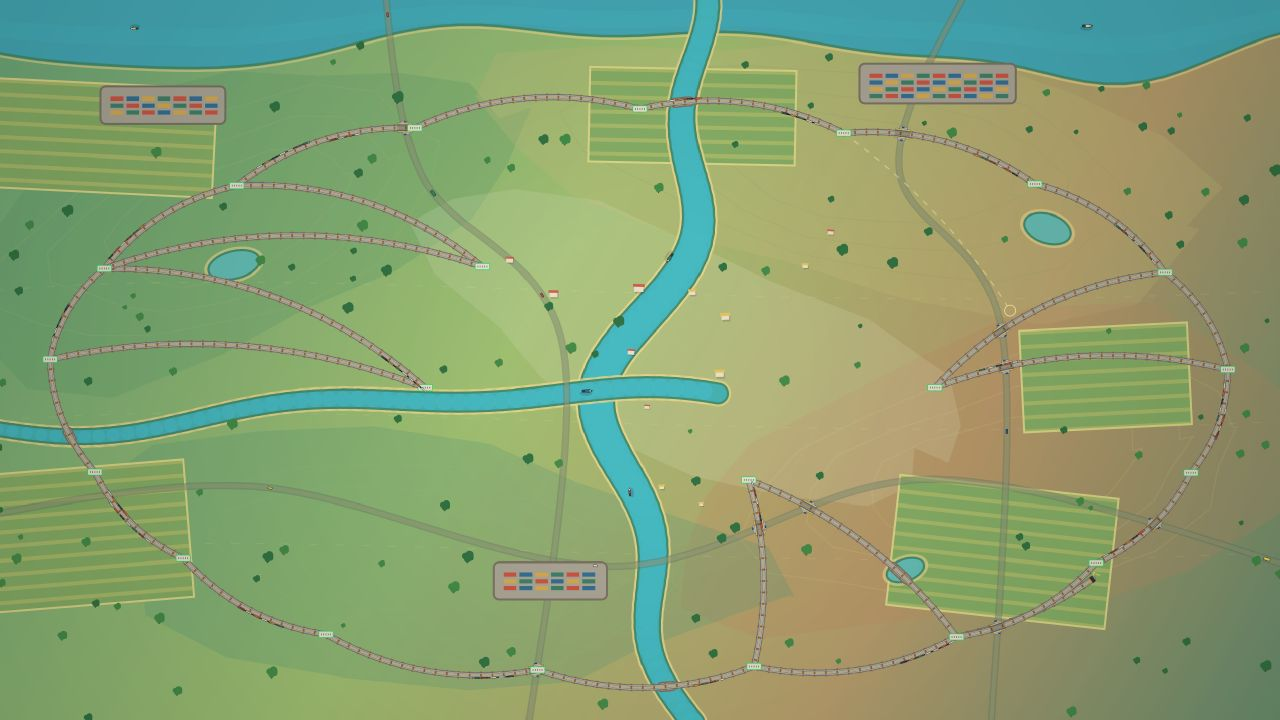
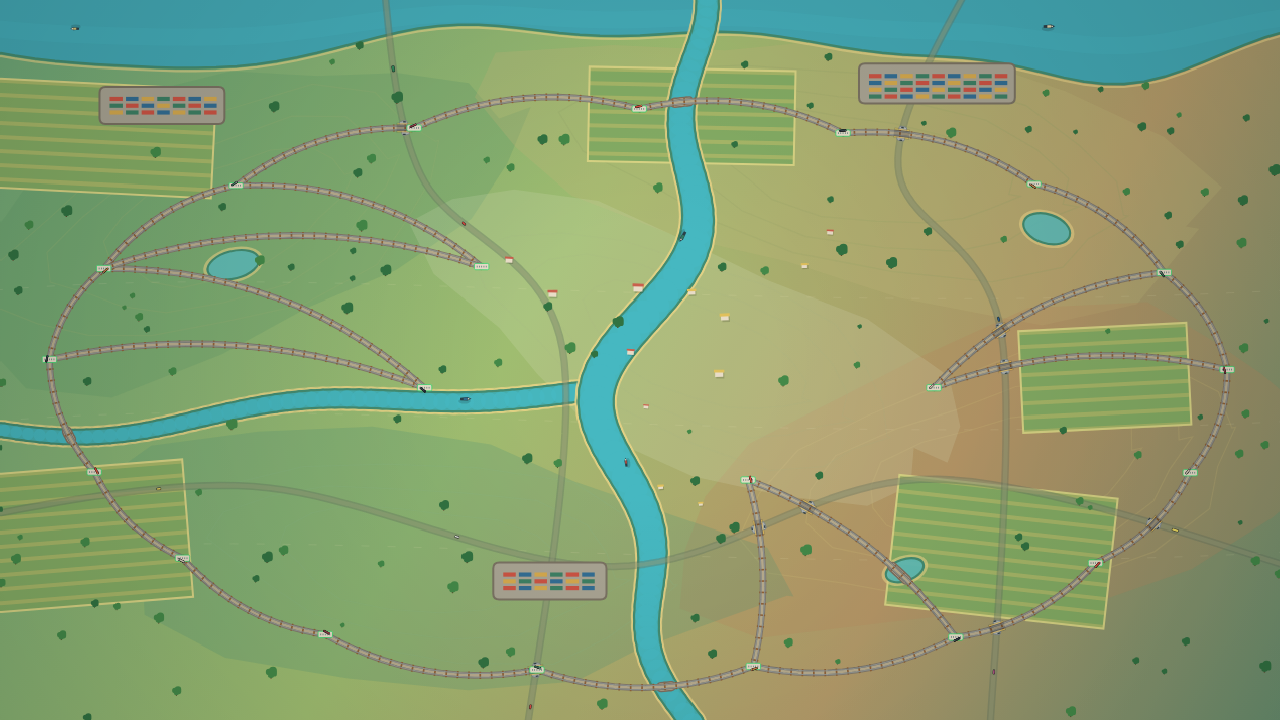
Fix river confluence rendering

diff --git a/script.js b/script.js
@@ -289,7 +289,8 @@
       const y = h * (0.09 + i * 0.19);
       mainRiverStops.push({ x: atlasMainRiverX(y), y });
     }
-    const tributaryStops = [0.05, 0.18, 0.32, 0.46, 0.55].map((xFactor) => {
+    const tributaryEnd = atlasTributaryConfluenceX() / w;
+    const tributaryStops = [0.05, 0.18, 0.32, Math.max(0.36, tributaryEnd - 0.035), tributaryEnd].map((xFactor) => {
       const x = w * xFactor;
       return { x, y: atlasTributaryY(x) };
     });
@@ -372,6 +373,22 @@
   function atlasTributaryHalfWidth(x) {
     const t = clamp(x / Math.max(1, state.width), 0, 1);
     return atlasMinDim() * (0.008 + 0.004 * Math.sin(t * Math.PI));
+  }
+
+  function atlasTributaryConfluenceX() {
+    const w = Math.max(1, state.width);
+    let bestX = w * 0.48;
+    let bestGap = Infinity;
+    for (let i = 0; i <= 64; i += 1) {
+      const x = w * (0.36 + i / 64 * 0.22);
+      const y = atlasTributaryY(x);
+      const gap = Math.abs(x - (atlasMainRiverX(y) - atlasMainRiverHalfWidth(y) * 0.88));
+      if (gap < bestGap) {
+        bestGap = gap;
+        bestX = x;
+      }
+    }
+    return bestX;
   }
 
   function atlasLakes() {
@@ -1032,8 +1049,8 @@
     target.save();
     drawNorthCoast(target, deep, water, edge, sand);
     drawLakeSet(target, water, edge, sand);
-    drawAtlasRiver(target, atlasMainRiverSamples(72), water, edge, sand);
     drawAtlasRiver(target, atlasTributarySamples(52), water, edge, sand);
+    drawAtlasRiver(target, atlasMainRiverSamples(72), water, edge, sand);
     target.restore();
   }
 
@@ -1109,8 +1126,9 @@
 
   function atlasTributarySamples(count) {
     const points = [];
+    const endX = atlasTributaryConfluenceX();
     for (let i = 0; i <= count; i += 1) {
-      const x = state.width * (-0.02 + i / count * 0.58);
+      const x = lerp(-state.width * 0.02, endX, i / count);
       points.push({ x, y: atlasTributaryY(x), halfWidth: atlasTributaryHalfWidth(x) });
     }
     return points;
@@ -1945,7 +1963,8 @@
     const w = state.width;
     const coast = point.y < atlasCoastlineY(point.x);
     const mainRiver = Math.abs(point.x - atlasMainRiverX(point.y)) < atlasMainRiverHalfWidth(point.y);
-    const tributary = point.x > -w * 0.03 && point.x < w * 0.58 && Math.abs(point.y - atlasTributaryY(point.x)) < atlasTributaryHalfWidth(point.x);
+    const tributaryEnd = atlasTributaryConfluenceX() + atlasTributaryHalfWidth(point.x);
+    const tributary = point.x > -w * 0.03 && point.x < tributaryEnd && Math.abs(point.y - atlasTributaryY(point.x)) < atlasTributaryHalfWidth(point.x);
     const lake = atlasLakes().some((item) => pointInLake(point, item));
     return coast || mainRiver || tributary || lake;
   }

diff --git a/index.html b/index.html
@@ -8,6 +8,6 @@
   </head>
   <body>
     <canvas id="rail-canvas" aria-label="Animated top-down train wallpaper"></canvas>
-    <script src="script.js?v=earth-atlas-water-1"></script>
+    <script src="script.js?v=earth-atlas-water-2"></script>
   </body>
 </html>